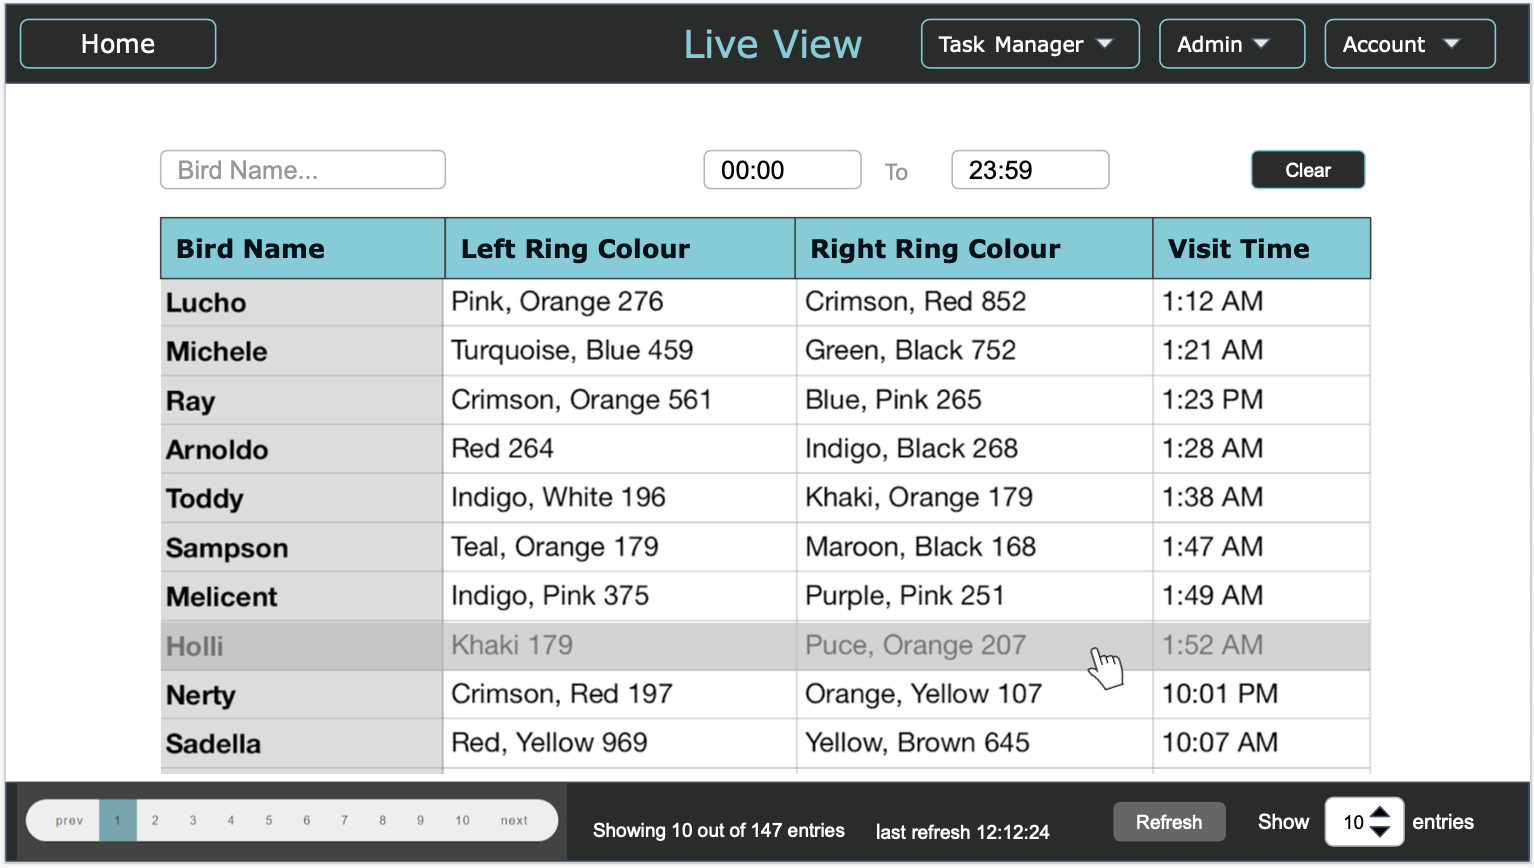
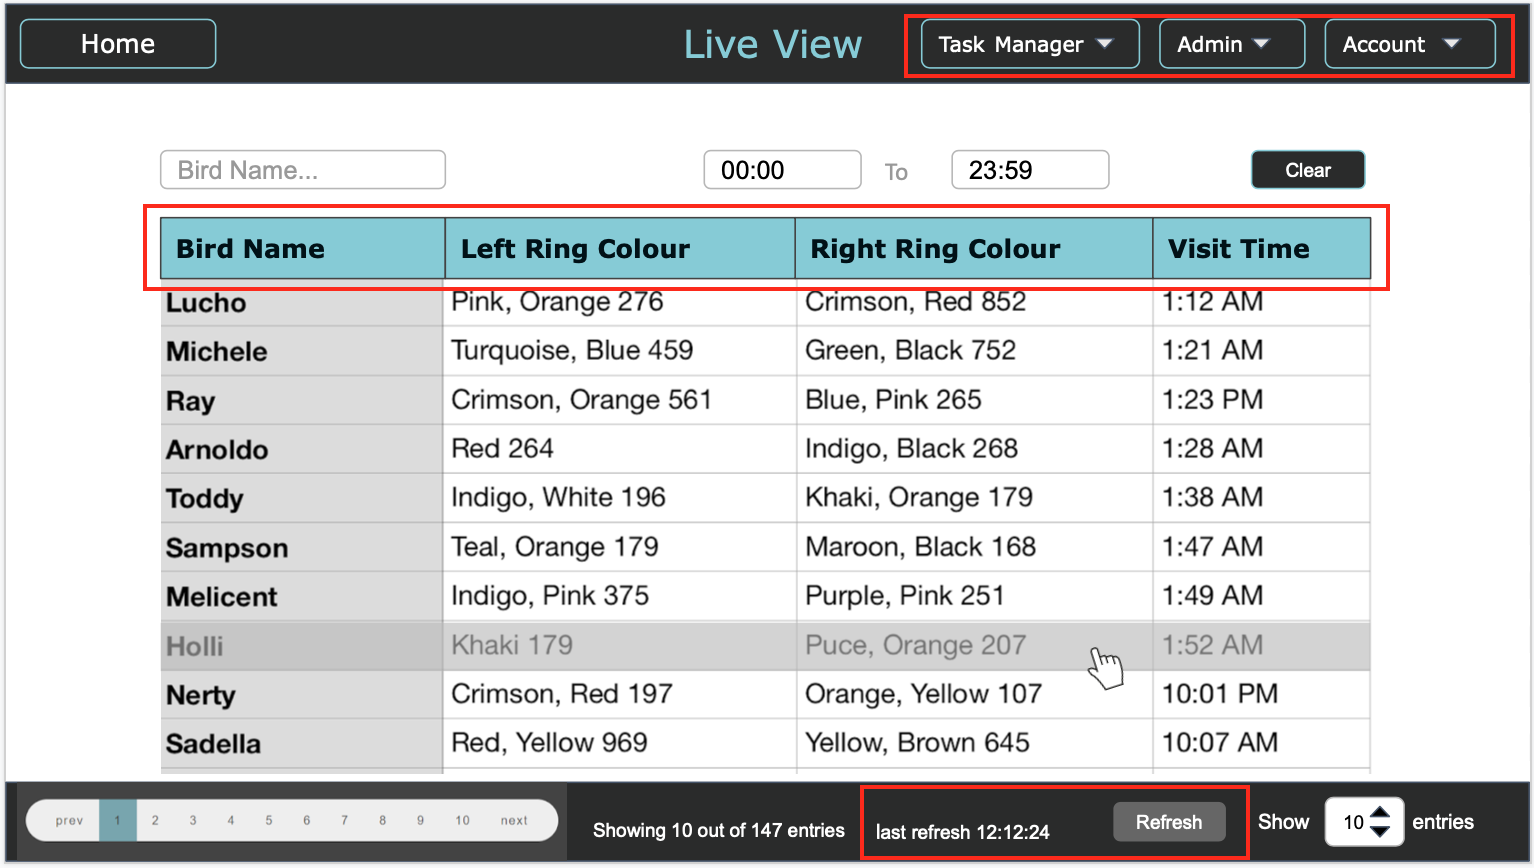
hifi2

diff --git a/Corpus/index.html b/Corpus/index.html
@@ -845,7 +845,7 @@
             </tr>
         </table>
 
-        <p>This version of 'Live View' has been modified number of times. Table has been moved to centre. First column
+        <p>This version of Live View has been modified number of times. Table has been moved to centre. First column
             has been removed to avoid unnecessary information on the screen as it does not serve any purpose for
             researchers. Menu has been moved to
             the top right corner and 'Live View' button has been added so that users can always return to live screen
@@ -1012,6 +1012,55 @@
                 <td id="img"><img src="Phase4/contrastpass2.png" width="350" height="225"></td>
             </tr>
         </table>
+        
+        <h3>Live View</h3>
+        <p>Before second user testing some adjustments have been made to the system so we wanted to make sure that these changes are communicated to client and will not largely affect system usability. </p>
+        <ol>
+        <li>During development stage it was decided to change Menu option. Instead of one Menu button in the web page header, we decided to have three buttons on the right side of the header. This simplified developer’s task and saved some time to work on other system functionality and did not affect systems usability.</li>
+        
+        <p>Menu buttons included:</p>
+        <ul>
+        <li>Task Manager – Live View, Birds Table, Manage Rings, Manage Nest Sites</li>   
+        <li>Admin – Manage Users, User Activity Monitor</li>  
+        <li>Account – My Profile, Log Out</li>
+        </ul>
+        <p>Buttons such as Register New Bird and Register New User has been removed from Menu and added to Birds Table View and Manage Users View as requested by client during second user testing.</p>
+        <li>All pagination related information has been moved to the footer of the page, this was not client request, but it grouped all related filters in one area.</li>
+        <li>Notifications related to new bird visits have also been moved to the footer. As per client’s request we have added refresh button and text label that informs users when new visits have been registered in the system. The pop-up message was removed from the prototype. </li>
+        <li>Table design has been modified to match colours that passed usability test</li>
+        <li>Vue.js provides a number of user-friendly UI features including date and time pickers. Chosen time filter provided option to choose time and date using same design which is why it was chosen as it would add consistency element throughout the design. </li>
+        </ol>
+        <table id="lofitable1" border="0">
+            <tr>
+                <td id="img"><img src="Phase4/timepicker.png" width="150" height="150"></td>
+                <td id="img"><img src="Phase4/timepicker2.png" width="150" height="150"></td>
+                <td id="img"><img src="Phase4/datepicker.png" width="150" height="150"></td>
+            </tr>
+        </table>
+        
+        <p>Final version of Live View includes all improvements and modifications suggested by client. </p>
+        
+        <table id="lofitable1" border="0">
+            <tr>
+                <td id="img"> Live View Version 5 </td>
+                <td id="img"> Live View Final Version </td>
+            </tr>
+
+            <tr>
+                <td id="img"><img src="Phase4/liveviewversion5.png" width="375" height="200"></td>
+                <td id="img"><img src="Phase4/liveviewfinal.png" width="375" height="200"></td>
+            </tr>
+        </table>
+        
+        
+        
+        
+        
+        
+        
+        
+        
+        
 
     </div>
     <div id="scripts">
